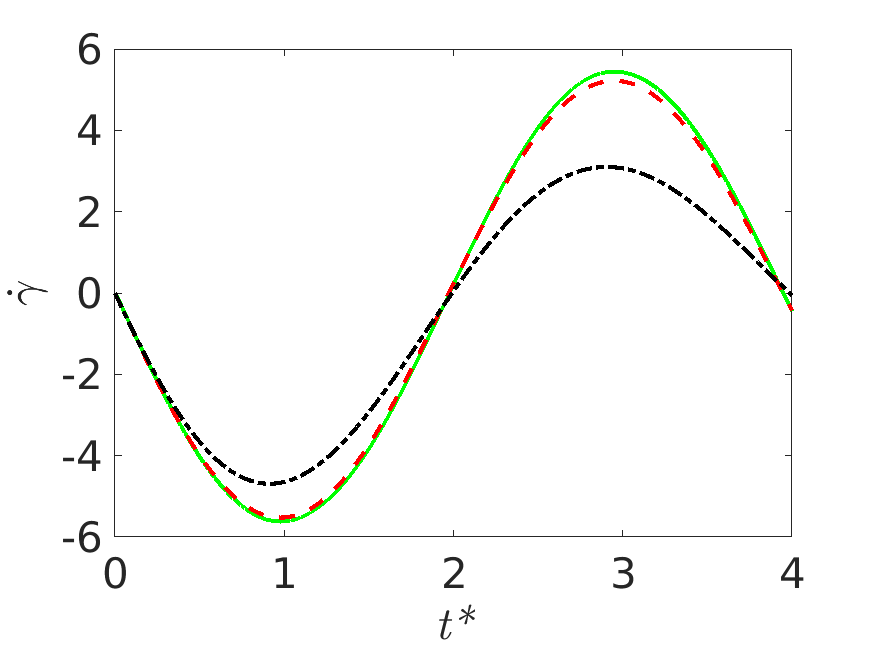
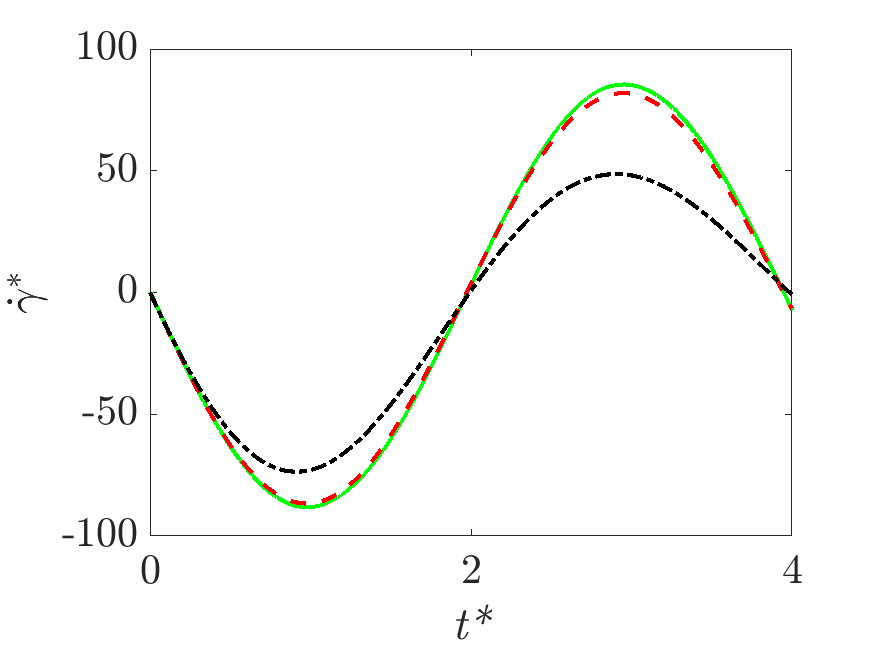
updated figures for the code

diff --git a/bubblewall_main.m b/bubblewall_main.m
@@ -15,29 +15,32 @@ shearmodulus = 0;                       % shear modulus of the surounding materi
 mu_water = 8.9*10E-4;                   % viscosity of water
 Ca = (rho*c*c)/shearmodulus;            % shear modulus of soft material 
 We_w = (rho*c*c*Ro_w)/Sd;
+gamma0 = A/(rho*c*Ro_w);
 
 % SETTING UP THE FIGURES
 figure(1)  
 hold on
 xlabel('\it{t*}', 'Interpreter', 'Latex', 'FontSize', 20); 
-ylabel('\it{R*}', 'Interpreter', 'Latex', 'FontSize', 20); 
+ylabel('$\it{R^*}$-1', 'Interpreter', 'Latex', 'FontSize', 20); 
 %leg = legend('$\mu_{water}$','$\mu_{blood,\infty}$', '$\mu_{blood}$', '$\mu_{blood,0}$' ); 
 %set(leg,'Interpreter','latex','Location','northeast');
 %set(leg,'FontSize',18);
 box on;
 set(gcf,'color','w'); %Changes background to white 
 set(gca, 'FontName', 'Times', 'FontSize',20); 
+set(gca,'TickLabelInterpreter','latex')
 
 figure(2)
 hold on
 xlabel('\it{t*}', 'Interpreter', 'Latex', 'FontSize', 20); 
-ylabel('$\dot{\gamma}$', 'Interpreter', 'Latex', 'FontSize', 20); 
+ylabel('$\dot{\gamma}^*$', 'Interpreter', 'Latex', 'FontSize', 20); 
 %leg = legend('$\mu_{water}$','$\mu_{blood,\infty}$', '$\mu_{blood}$', '$\mu_{blood,0}$' ); 
 %set(leg,'Interpreter','latex','Location','northeast');
 %set(leg,'FontSize',18);
 box on;
 set(gcf,'color','w'); %Changes background to white 
 set(gca, 'FontName', 'Times', 'FontSize',20); 
+set(gca,'TickLabelInterpreter','latex')
 
 figure(3)
 hold on
@@ -47,30 +50,35 @@ ylabel('$\mu$*', 'Interpreter', 'Latex', 'FontSize', 20);
 %set(leg,'Interpreter','latex','Location','northeast');
 %set(leg,'FontSize',18);
 box on;
+ylim([0 1.1])
 set(gcf,'color','w'); %Changes background to white 
 set(gca, 'FontName', 'Times', 'FontSize',20); 
+set(gca,'TickLabelInterpreter','latex')
 
 figure(4)
 hold on
 xlabel('\it{t*}', 'Interpreter', 'Latex', 'FontSize', 20); 
-ylabel('$\tau_v$', 'Interpreter', 'Latex', 'FontSize', 20); 
+ylabel('$\tau_v$ [Pa]', 'Interpreter', 'Latex', 'FontSize', 20); 
 %leg = legend('$\mu_{water}$','$\mu_{blood,\infty}$', '$\mu_{blood}$', '$\mu_{blood,0}$' ); 
 %set(leg,'Interpreter','latex','Location','northeast');
 %set(leg,'FontSize',18);
 box on;
 set(gcf,'color','w'); %Changes background to white 
 set(gca, 'FontName', 'Times', 'FontSize',20); 
+set(gca,'TickLabelInterpreter','latex')
 
 figure(5)
 hold on
 xlabel('$\dot{\gamma}$', 'Interpreter', 'Latex', 'FontSize', 20); 
-ylabel('$\tau_v$', 'Interpreter', 'Latex', 'FontSize', 20); 
+ylabel('$\tau_v$ [Pa]', 'Interpreter', 'Latex', 'FontSize', 20); 
 %leg = legend('$\mu_{water}$','$\mu_{blood,\infty}$', '$\mu_{blood}$', '$\mu_{blood,0}$' ); 
 %set(leg,'Interpreter','latex','Location','northeast');
 %set(leg,'FontSize',18);
 box on;
 set(gcf,'color','w'); %Changes background to white 
 set(gca, 'FontName', 'Times', 'FontSize',20); 
+set(gca,'TickLabelInterpreter','latex')
+
 
 %RUNNING AND PLOTTING
 %Water
@@ -84,15 +92,17 @@ vmaterial = 'lsq_mu_inf';
 [ODE]=bubblewall_solver(Ro_w,A,w,We_w,Ca,rho,po,pv,c,tfinal,'KM','NeoH','Carreau',vmaterial);
 figure(1)
 tspan = (ODE.x/tRC);
-plot(tspan,(ODE.y(1,:)/Ro_w), 'g','LineWidth',2); 
+Roft = (ODE.y(1,:)/Ro_w)-1;
+plot(tspan,Roft, 'g','LineWidth',2); 
 figure(2)
 gamma = (ODE.y(2,:))./(ODE.y(1,:));
-plot(tspan,gamma,'g','LineWidth',2); 
+gamman = gamma/gamma0;
+plot(tspan,gamman,'g','LineWidth',2); 
 figure(3)
 mutrace = carreau(vmaterial,gamma)/mu_o*ones(size(gamma));
 plot(tspan,mutrace,'g','LineWidth',2); 
 figure(4)
-tautrace = abs(mutrace.*gamma).*(gamma>0);
+tautrace = mutrace.*gamma;
 plot(tspan,tautrace,'g','LineWidth',2); 
 figure(5)
 tautrace = abs(mutrace.*gamma).*(gamma>0);
@@ -103,15 +113,17 @@ vmaterial = 'lsq_blood';
 [ODE]=bubblewall_solver(Ro_w,A,w,We_w,Ca,rho,po,pv,c,tfinal,'KM','NeoH','Carreau',vmaterial); %blood - Carreau 
 figure(1)
 tspan = (ODE.x/tRC);
-plot(tspan,(ODE.y(1,:)/Ro_w),'r--','LineWidth',2); 
+Roft = (ODE.y(1,:)/Ro_w)-1;
+plot(tspan,Roft,'r--','LineWidth',2); 
 figure(2)
 gamma = (ODE.y(2,:))./(ODE.y(1,:));
-plot(tspan,gamma,'r--','LineWidth',2);
+gamman = gamma/gamma0;
+plot(tspan,gamman,'r--','LineWidth',2);
 figure(3)
 mutrace = carreau(vmaterial,gamma)/mu_o;
 plot(tspan,mutrace, 'r--','LineWidth',2);
 figure(4)
-tautrace = abs(mutrace.*gamma).*(gamma>0);
+tautrace = mutrace.*gamma;
 plot(tspan,tautrace, 'r--','LineWidth',2);
 figure(5)
 tautrace = abs(mutrace.*gamma).*(gamma>0);
@@ -122,15 +134,17 @@ vmaterial = 'lsq_mu_knot';
 [ODE]=bubblewall_solver(Ro_w,A,w,We_w,Ca,rho,po,pv,c,tfinal,'KM','NeoH','Carreau',vmaterial);
 figure(1)
 tspan = (ODE.x/tRC);
-plot(tspan,(ODE.y(1,:)/Ro_w),'k-.','LineWidth',2); 
+Roft = (ODE.y(1,:)/Ro_w)-1;
+plot(tspan,Roft,'k-.','LineWidth',2); 
 figure(2)
 gamma = (ODE.y(2,:))./(ODE.y(1,:));
-plot(tspan,gamma,'k-.','LineWidth',2); 
+gamman = gamma/gamma0;
+plot(tspan,gamman,'k-.','LineWidth',2); 
 figure(3)
 mutrace = carreau(vmaterial,gamma)/mu_o*ones(size(gamma));
 plot(tspan,mutrace,'k-.','LineWidth',2); 
 figure(4)
-tautrace = abs(mutrace.*gamma).*(gamma>0);
+tautrace = mutrace.*gamma;
 plot(tspan,tautrace,'k-.','LineWidth',2); 
 figure(5)
 tautrace = abs(mutrace.*gamma).*(gamma>0);
